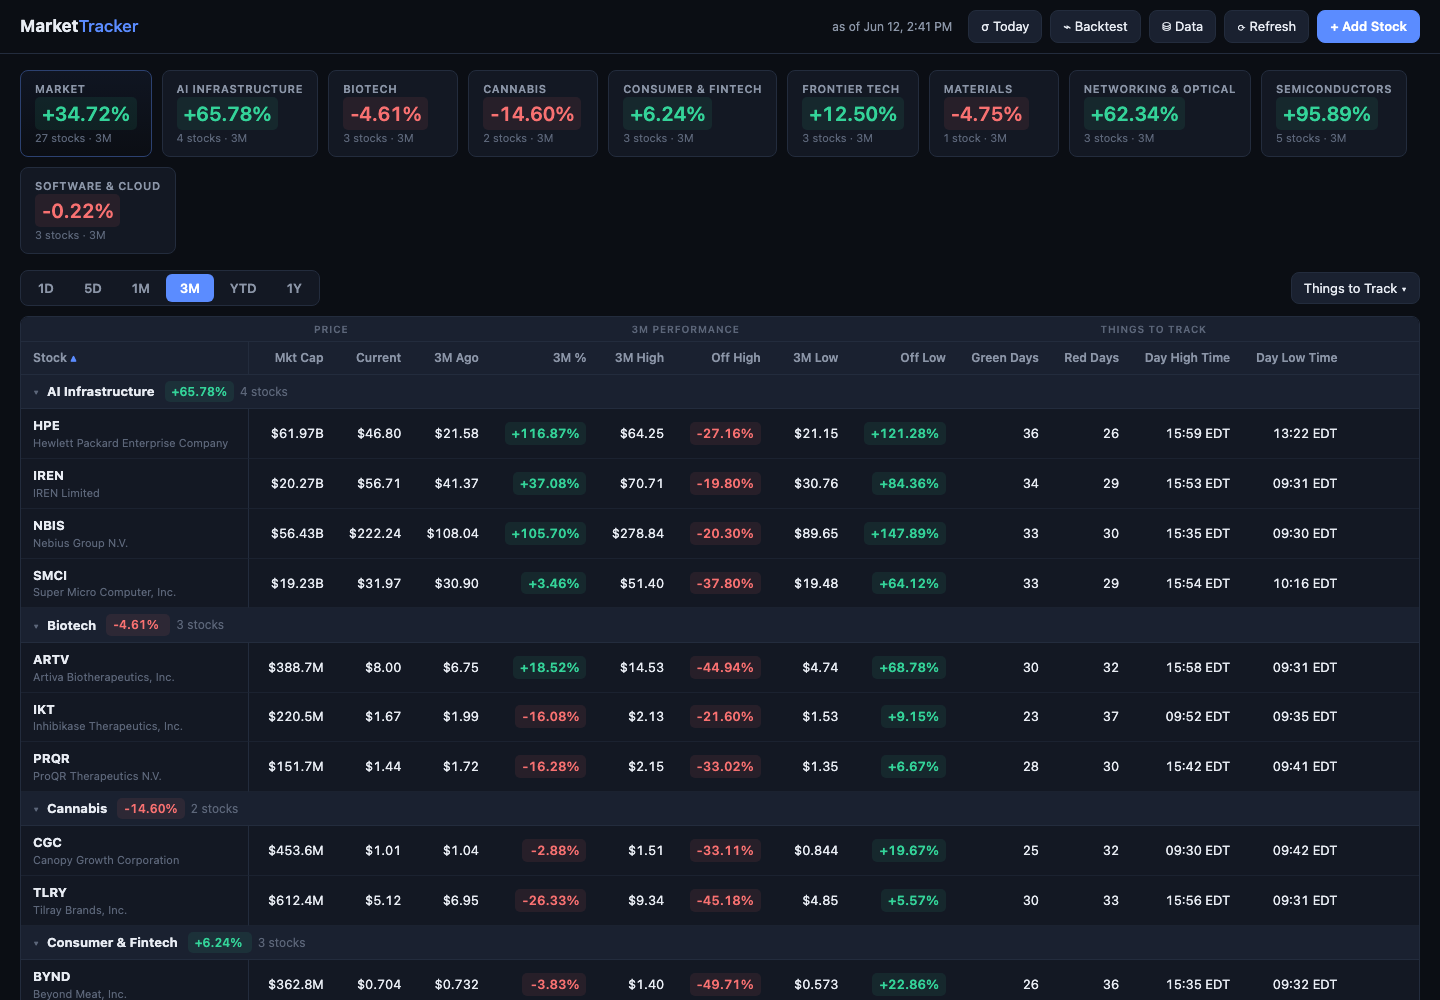
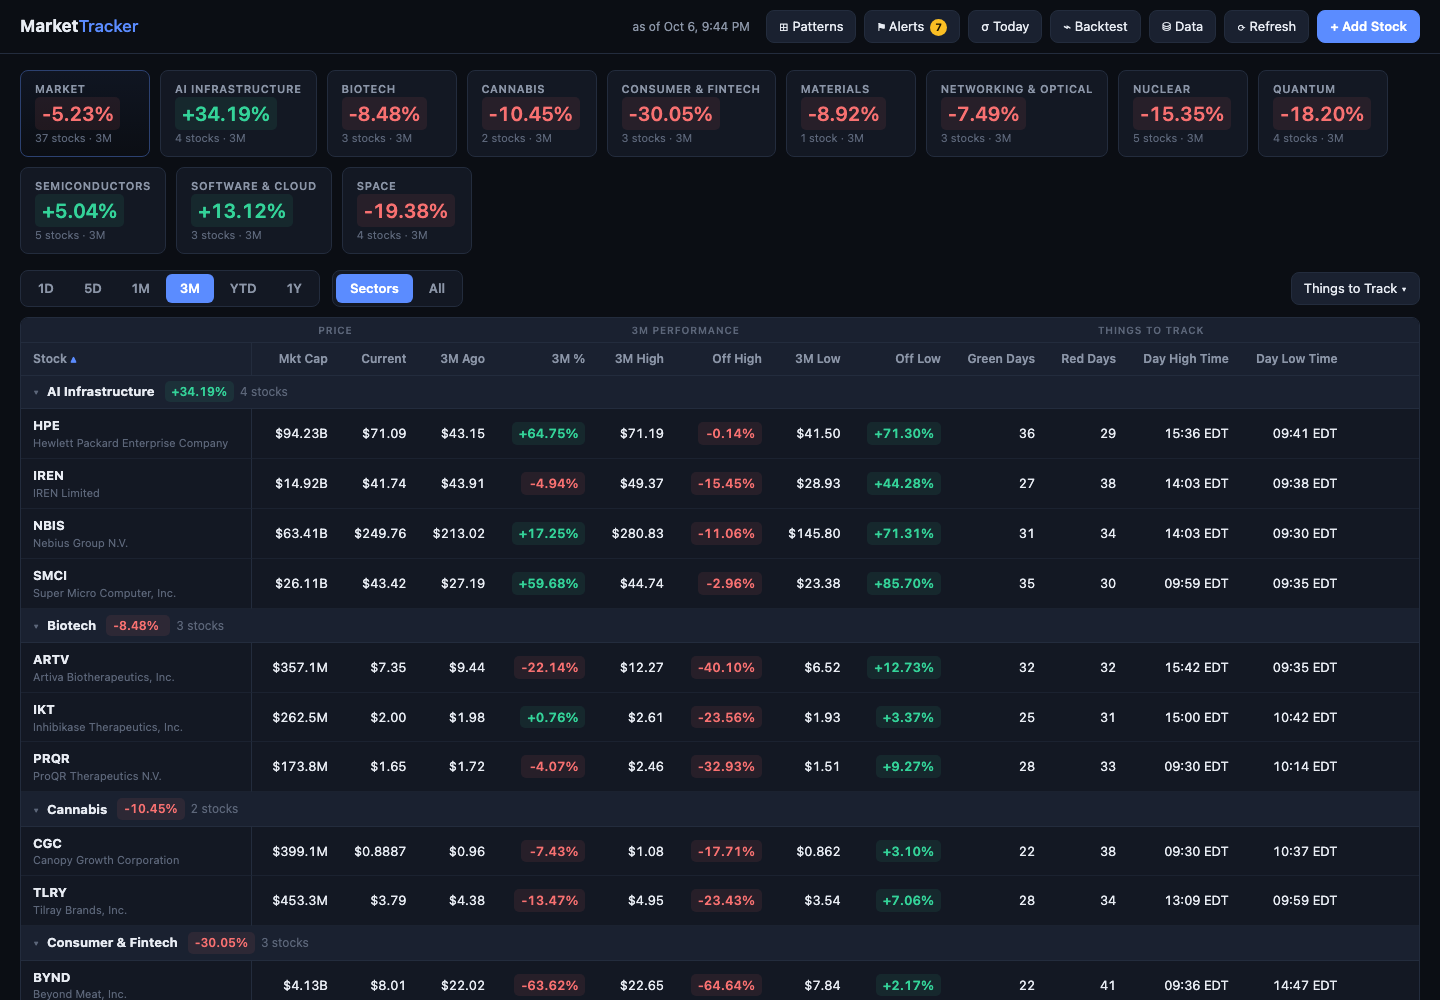
Recapped session: brought the README to the house docs shape and refreshed its screenshot
README's Highlights (9 bullets, ahead of Limitations) became a seven-bullet
Experience Gained section after Limitations, each bullet citing a number measured
from the running app; the screenshot now shows the current topbar and sectors.
CLAUDE.md records that the repo is public with CI (code goes branch -> PR ->
merge on green), the ahead-of-origin check that caught 11 unpushed commits, and
that the built-in browser can verify a Bash-run server here.

diff --git a/README.md b/README.md
@@ -268,40 +268,6 @@ def range_pct(daily, intraday):
 | `DELETE /api/stocks/{id}` | Stop tracking |
 | `GET /api/sectors` · `DELETE /api/sectors/{id}` | List sectors · delete an empty sector |
 
-## Highlights
-
-- Designed and built a full-stack market-tracking dashboard: **FastAPI** REST API +
-  dependency-free vanilla-JS single-page UI with a dark, density-first table design
-- Engineered a **TTL-cached batch data layer** over the Yahoo Finance API (yfinance)
-  that collapses N tickers × M metrics into two batched requests, with stale-cache
-  fallback for upstream outages
-- Built a **pluggable metrics registry** — new analytics columns are single
-  decorated Python functions that flow through to a dynamic, user-toggleable UI
-  column picker with persisted preferences
-- Implemented **SQLite persistence** with validated CRUD endpoints and
-  graceful degradation for delisted tickers and partial price history
-- Synthesized live intraday bars into daily windows so current prices stay
-  real-time during market hours despite upstream daily-feed lag
-- Built a **file-based LLM-maintained knowledge system** (Karpathy LLM-wiki
-  pattern) over an Obsidian vault: article ingestion with automated
-  fact-checking, provenance-linked knowledge routing, per-source price-impact
-  tracking, and read-only API/UI integration — deliberately RAG-free at this
-  scale
-- Established a **265-test behavior suite and CI pipeline** (GitHub Actions:
-  lint, backend, frontend) covering the HTTP contract, concurrency, and
-  financial-simulation correctness — with every invariant verified to fail
-  against deliberately broken code before being trusted as a gate
-- Designed a **user-defined rule engine** evaluating threshold conditions over
-  120+ computed statistics — including calendar and sequence patterns that
-  flag only differences beyond a multiple-comparison-corrected noise band, after
-  measuring that most weekday "effects" in the portfolio were chance — with
-  screener-style rules that fan out across the whole portfolio, per-window
-  query batching, and unmeasurable inputs surfaced explicitly rather than
-  collapsed into a false negative
-- Hardened a **thread-safe TTL cache** by scoping locks per cache slot so a slow
-  upstream fetch can no longer stall unrelated reads, with regression tests that
-  assert concurrent fetches overlap rather than serialize
-
 ## Limitations
 
 - Quotes are Yahoo's (15–20 min delayed for some exchanges); this is a tracker,
@@ -309,6 +275,33 @@ def range_pct(daily, intraday):
 - Prices are displayed in the listing currency with a `$` prefix — non-USD
   listings (e.g. `.TO` tickers) aren't currency-converted
 - Single-user by design: the cache is in-process and the DB is a local file
+
+## Experience Gained
+
+- Built a full-stack market dashboard — a FastAPI API (18 endpoints) and a
+  dependency-free vanilla-JS single-page UI over SQLite — tracking 37 stocks across
+  11 sectors, with validated CRUD and graceful degradation for delisted tickers and
+  partial history
+- Engineered a cached batch data layer over Yahoo Finance that serves all 37 tickers
+  in one request per window, with per-slot locks so a slow fetch never stalls other
+  reads, stale-cache fallback during outages, and live 1-minute bars folded into
+  daily windows
+- Built a pluggable metrics registry: each of the 65 analytics columns is a single
+  decorated Python function that appears in the UI's column picker with no frontend
+  change
+- Designed a user-defined alert engine over 124 computed statistics, including
+  calendar and sequence patterns that flag a difference only past a
+  multiple-comparison-corrected band (|z| ≥ 2.6) — after measuring that most weekday
+  "effects" in the portfolio were chance (6–10 of 185 cells vs ~8 expected)
+- Built a historical rule backtester with 7 honesty invariants (no look-ahead,
+  range-checked fills, gaps filled at the open, stop assumed before target, …) pinned
+  by hand-computed fixtures
+- Built a file-based, LLM-maintained knowledge base (Karpathy LLM-wiki pattern) over
+  an Obsidian vault — 64 stock notes, 12 sector notes and 21 fact-checked articles
+  with per-source price-impact tracking — read by the app without RAG
+- Established a 265-test behavior suite (232 pytest + 33 node) running in GitHub
+  Actions on every push and pull request, with each invariant proven to fail against
+  deliberately broken code before it is trusted as a gate
 
 ## License
 

diff --git a/CLAUDE.md b/CLAUDE.md
@@ -37,8 +37,10 @@
 - Lint config lives in `pyproject.toml` and deliberately selects the correctness families (`F`, `E4/E7/E9`, `B`, `I`) rather than the style-modernization ones — the codebase consistently uses `Optional[...]`, and churning that would bury real findings.
 
 ## Workflow
-- Commit each verified change as you go (owner preference). Descriptive messages, author = owner only — never a Claude co-author trailer. The repo is destined for public GitHub: run the leak check (no `data/`, `venv/`, `.claude/settings.local.json`, secrets, or absolute personal paths) before commits that add files.
+- Commit each verified change as you go (owner preference). Descriptive messages, author = owner only — never a Claude co-author trailer. The repo is PUBLIC (github.com/Ali0600/stock-market-tracker): run the leak check (no `data/`, `venv/`, `.claude/settings.local.json`, secrets, or absolute personal paths) before commits that add files.
+- App/test/CI changes: branch → PR → merge on green CI (squash). Docs and agent notes go straight to `main`. Before branching, check `git rev-list --count origin/main..HEAD` is 0 — local `main` once sat 11 commits ahead for two months, and a branch cut from it would have swept them into an unrelated PR.
 - Port 8000 is often taken by another local app — verify on a free port (e.g. 8010) rather than killing whatever holds it.
 
 ## Verifying UI changes
-- The Claude Preview panel cannot start servers from this folder (see global CLAUDE.md → machine notes). Run the server with Bash and screenshot with headless Chrome instead.
+- The Claude Preview panel cannot start servers from this folder (macOS folder protection). Run the server with Bash (`venv/bin/python -m uvicorn app.main:app --port 8010`), then either open it in the **built-in browser** (`navigate` to `http://127.0.0.1:8010/...` works and allows clicks, form input and JS inspection — verified 2026-10-06) or screenshot it with headless Chrome. Headless Chrome with `--virtual-time-budget` can write the PNG and then hang: run each capture in the background, wait for the file, then kill the process — never chain captures with `;`.
+- The detail dialog scrolls inside `#detailModal`, not the page — set `detailModal.scrollTop` to reach sections below the fold.
